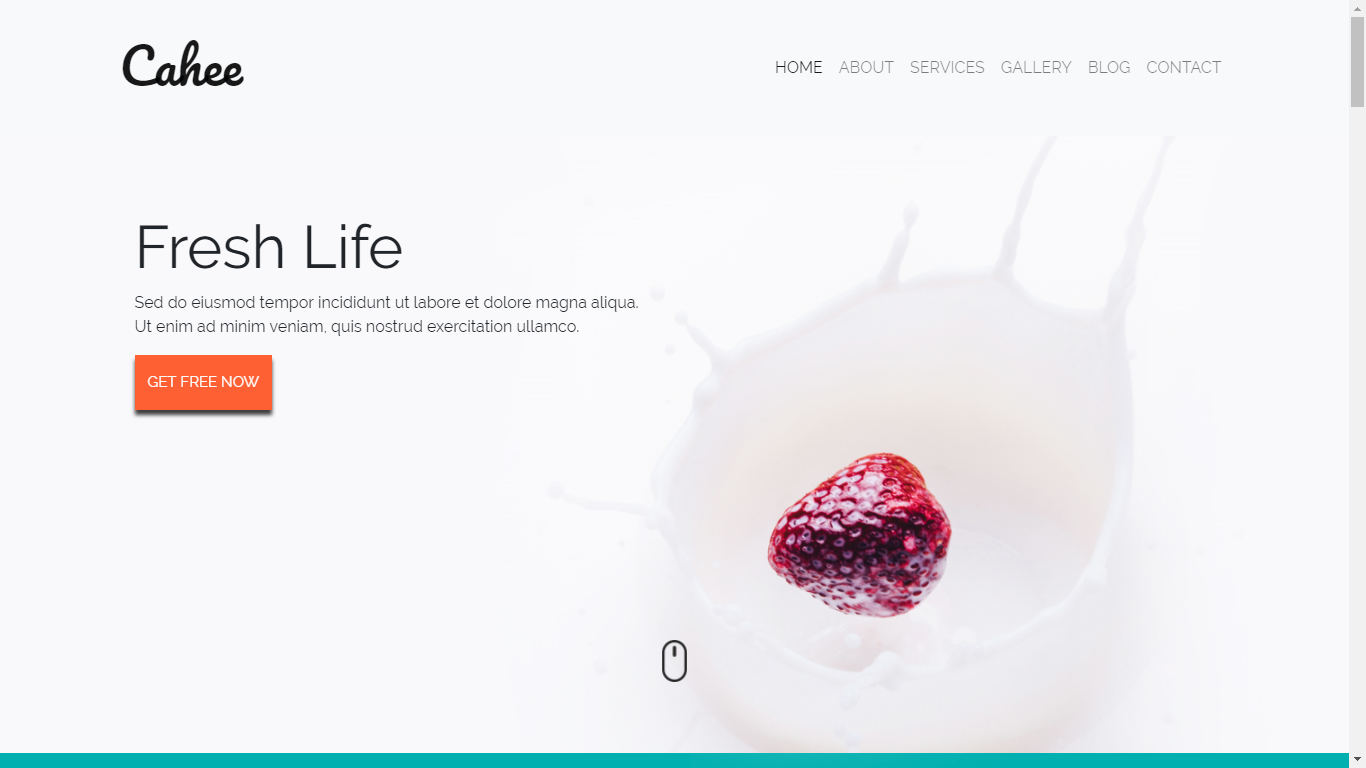
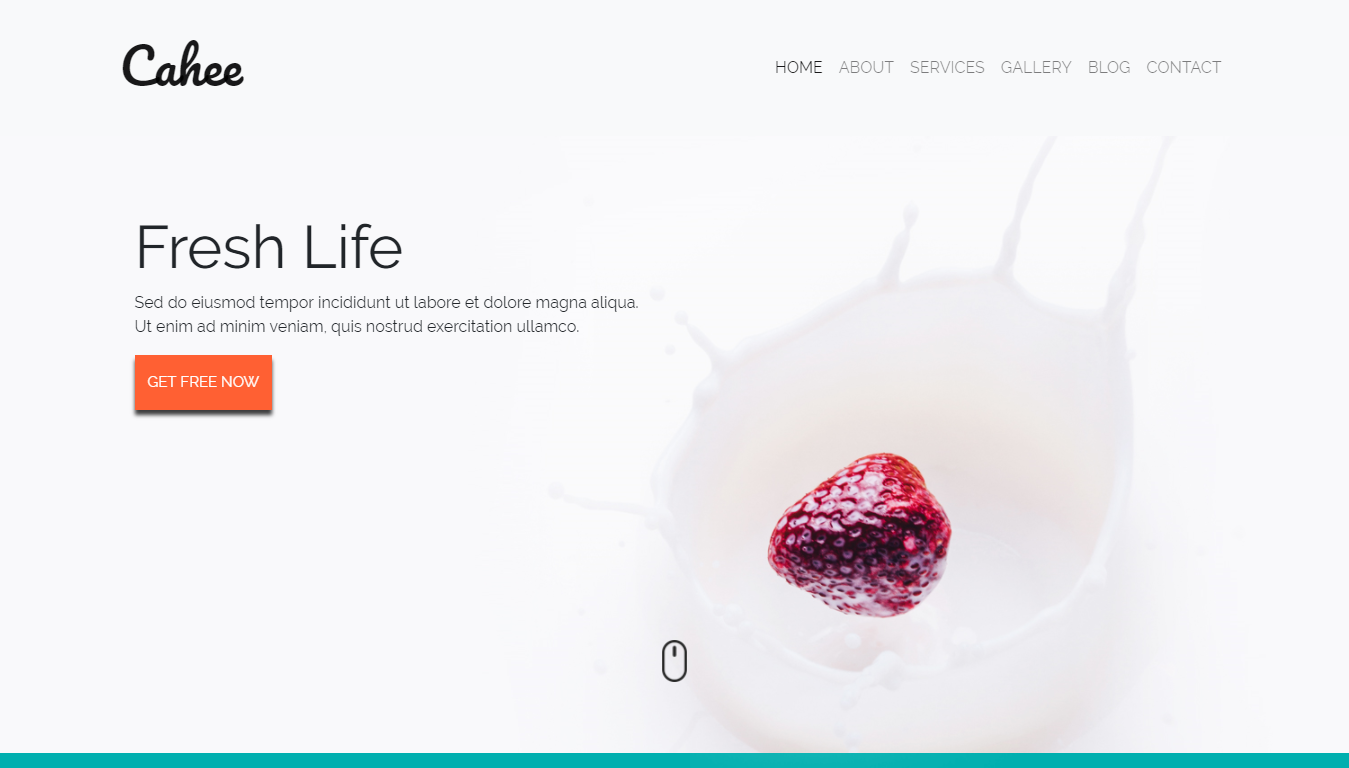
minor fixes & nav fix

diff --git a/CSS/style.css b/CSS/style.css
@@ -1,3 +1,3 @@
-html,body,div,span,applet,object,iframe,h1,h2,h3,h4,h5,h6,p,blockquote,pre,a,abbr,acronym,address,big,cite,code,del,dfn,em,img,ins,kbd,q,s,samp,small,strike,strong,sub,sup,tt,var,b,u,i,center,dl,dt,dd,ol,ul,li,fieldset,form,label,legend,table,caption,tbody,tfoot,thead,tr,th,td,article,aside,canvas,details,embed,figure,figcaption,footer,header,hgroup,menu,nav,output,ruby,section,summary,time,mark,audio,video{margin:0;padding:0;border:0;font-size:100%;font:inherit;vertical-align:baseline}article,aside,details,figcaption,figure,footer,header,hgroup,menu,nav,section{display:block}body{line-height:1}ol,ul{list-style:none}blockquote,q{quotes:none}blockquote:before,blockquote:after,q:before,q:after{content:'';content:none}table{border-collapse:collapse;border-spacing:0}.body{overflow-x:hidden;font-size:10px;font-family:'Titillium Web', sans-serif}.nav__container,.header__container,.abt__container,.skls__container,.prt__container,.cntc__container{padding-left:15px;padding-right:15px;margin-right:auto;margin-left:auto}.footer__container{width:100%}@media (min-width: 575.98px){.nav__container,.header__container,.abt__container,.skls__container,.prt__container,.cntc__container{max-width:540px}}@media (min-width: 320px){.nav__container,.header__container,.abt__container,.skls__container,.prt__container,.cntc__container{max-width:720px}}@media (min-width: 991.98px){.nav__container,.header__container,.abt__container,.skls__container,.prt__container,.cntc__container{max-width:1146px}}@media (min-width: 1199.98px){.nav__container,.header__container,.abt__container,.skls__container,.prt__container,.cntc__container{max-width:1146px}}a,a:link,a:visited{color:white}a:hover{color:white}a{text-decoration:none}.nav{display:block;z-index:333;position:fixed;width:100%;margin-top:0;top:0;background-color:#87509c}.nav__brand{display:-webkit-box;display:-ms-flexbox;display:flex;-webkit-box-pack:start;-ms-flex-pack:start;justify-content:flex-start;width:60px;height:60px;padding-top:8px;font-size:24px;font-weight:bolder;color:white}.nav__hamburger{display:-webkit-box;display:-ms-flexbox;display:flex;-webkit-box-pack:end;-ms-flex-pack:end;justify-content:flex-end;position:absolute;top:5px;right:5px;z-index:34;width:30px;height:30px;margin:15px;padding:0;border:none;outline:0;padding:0;border-top:5px solid #fff;background:none;background:transparent;cursor:pointer;-webkit-transition:0.15s -webkit-transform linear;transition:0.15s -webkit-transform linear;transition:0.15s transform linear;transition:0.15s transform linear, 0.15s -webkit-transform linear}.nav__hamburger::after,.nav__hamburger::before{content:'';position:absolute;top:0;left:0;width:100%;border-top:5px solid #fff;-webkit-transform:translateY(5px);transform:translateY(5px);-webkit-transition:0.15s -webkit-transform linear;transition:0.15s -webkit-transform linear;transition:0.15s transform linear;transition:0.15s transform linear, 0.15s -webkit-transform linear}.nav__hamburger::after{-webkit-transform:translateY(15px);transform:translateY(15px)}.nav__list{display:none;position:relative;z-index:33;width:100%;height:auto;top:0;height:0;color:white}.nav__list--active{display:block;-webkit-transform:translateX(0);transform:translateX(0);height:150px}.nav__item{width:100%;text-align:center;border-bottom:2px solid white;font-size:2.6em}.nav__item a,.nav__item a:visited{text-decoration:none;color:#fff}.site_nav__item:first-child{background-color:#643a79}.header{min-height:60vh;padding-top:120px;padding-bottom:60px;background-color:#87509c}.header__h1{font-size:3.5em;line-height:130%;font-weight:bolder}.abt__h2,.skls__h2,.prt__h2,.cntc__h2{font-size:3.2em;line-height:130%;font-weight:bolder;padding-top:30px}.abt__h3,.skls__h3,.prt__h3,.cntc__h3{font-size:2.9em;line-height:130%;font-weight:500;padding-top:30px}.abt__h4,.skls__h4,.prt__h4,.prt__description,.cntc__h4{font-size:2.6em;line-height:130%;font-weight:400;padding-top:30px}.abt__description,.skls__h5,.skls__description{font-size:2.4em;line-height:130%;font-weight:300;padding-top:30px}.abt__hr,.skls__hr,.prt__hr,.cntc__hr{height:4px;width:88px;background-color:black;opacity:0.15;border:none;margin-top:22px;margin-bottom:22px}.header__button,.prt__button,button[type=submit]{height:66px;font-size:1.5em;font-weight:bolder;text-align:center;margin:0 auto;display:block;border-radius:3px;border:none;min-width:200px;max-width:293px;line-height:66px;cursor:pointer}.header__h1{text-align:center;color:white}.header__button{margin-top:60px;background-color:#eb7d4b;-webkit-box-shadow:0 4px #c86a40;box-shadow:0 4px #c86a40;color:white}.abt{background-color:#17c2a4;color:white}.abt__grid{display:-webkit-box;display:-ms-flexbox;display:flex;-webkit-box-orient:vertical;-webkit-box-direction:normal;-ms-flex-direction:column;flex-direction:column;padding-bottom:28px}.abt__h2{text-align:center}.abt__h3{text-align:center;margin-bottom:48px}.abt__description{min-height:170px;padding:10px}.skls{background-color:#d74680;color:white}.skls__h2{color:#3c4761;color:white;text-align:center}@font-face{font-family:'icomoon';src:url("../fonts/icomoon.eot?7b9zu8");src:url("../fonts/icomoon.eot?7b9zu8#iefix") format("embedded-opentype"),url("../fonts/icomoon.ttf?7b9zu8") format("truetype"),url("../fonts/icomoon.woff?7b9zu8") format("woff"),url("../fonts/icomoon.svg?7b9zu8#icomoon") format("svg");font-weight:normal;font-style:normal}[class^="icon-"],[class*=" icon-"]{font-family:'icomoon' !important;speak:none;fontstyle:normal;font-weight:normal;font-variant:normal;text-transform:none;line-height:1;webkit-font-smoothing:antialiased;-moz-osx-font-smoothing:grayscale}.icon-lightbulb-o:before{content:"\e901"}.icon-compass:before{content:"\e949"}.icon-power:before{content:"\e9b5"}.icon-flag:before{content:"\e9cc"}.icon-embed2:before{content:"\ea80"}.devicon,.icon-compass,.icon-embed2,.icon-flag,.icon-lightbulb-o,.icon-power{display:-webkit-box;display:-ms-flexbox;display:flex;-webkit-box-pack:center;-ms-flex-pack:center;justify-content:center;font-size:98px;color:#87509c}.fa-code{font-size:20px}.skls__h3{text-align:center;color:#3c4761;color:white}.skls__h4{color:white}.skls__h5{color:white;padding:10px}.skls__description{padding:10px}.skls__grid{display:-webkit-box;display:-ms-flexbox;display:flex;-webkit-box-orient:vertical;-webkit-box-direction:normal;-ms-flex-direction:column;flex-direction:column;margin-top:48px;padding-bottom:46px}.skls__item{margin-bottom:15px}.prt{background-color:#ffdd99;padding-bottom:60px}.prt__h2{font-weight:bolder;text-align:center;padding-top:50px}.prt__h3{text-align:center}.prt__h4{text-align:center}.prt__description{text-align:center;padding:10px}.prt__grid{padding-top:30px;display:grid;grid-template-rows:1fr}.prt__item{margin:1px}.prt__img{height:auto;max-width:100%;display:block;margin:0 auto}.prt__button{margin-top:24px;background-color:#17c2a4;-webkit-box-shadow:0 4px #14a58c;box-shadow:0 4px #14a58c;color:white}.cntc{background-color:#3c5499;padding-bottom:24px;color:white}.cntc__h2{text-align:center}.cntc__form{margin:0 auto}.cntc__inputsgroup{margin-top:8px;display:-webkit-box;display:-ms-flexbox;display:flex;-webkit-box-orient:vertical;-webkit-box-direction:normal;-ms-flex-direction:column;flex-direction:column}input[type=email],input[type=text]{width:100%;height:56px;margin-bottom:28px;border-radius:2px;border:none;text-indent:26px;font-size:1.6em;font-weight:normal;background-color:#273a71;color:white}input::-webkit-input-placeholder,textarea::-webkit-input-placeholder{color:white}input:-ms-input-placeholder,textarea:-ms-input-placeholder{color:white}input::-ms-input-placeholder,textarea::-ms-input-placeholder{color:white}input::placeholder,textarea::placeholder{color:white}button[type=submit]{text-align:center;-webkit-box-shadow:0 4px #299ec5;box-shadow:0 4px #299ec5;margin-top:16px;background-color:#30bae7;color:white}.cntc__textarea{width:100%;min-height:300px;resize:vertical;border-radius:2px;border:none;font-family:'Titillium Web', sans-serif;text-indent:26px;font-size:1.6em;font-weight:normal;color:white;background-color:#273a71}input:focus,textarea:focus{outline-color:white}.footer{min-height:60px;padding-bottom:6px;background-color:#344b8e}.footer__list{width:100%;display:-webkit-box;display:-ms-flexbox;display:flex;-webkit-box-orient:vertical;-webkit-box-direction:normal;-ms-flex-direction:column;flex-direction:column}.footer__link{margin-top:22px;text-align:center;font-size:2.2em}@media screen and (min-width: 575.98px){.abt__grid{-webkit-box-orient:horizontal;-webkit-box-direction:normal;-ms-flex-direction:row;flex-direction:row;-ms-flex-wrap:wrap;flex-wrap:wrap}.skls__grid{-webkit-box-orient:horizontal;-webkit-box-direction:normal;-ms-flex-direction:row;flex-direction:row;-ms-flex-wrap:wrap;flex-wrap:wrap}.skls__item{width:50%}.abt__item{width:50%}.cntc__inputsgroup{-webkit-box-orient:horizontal;-webkit-box-direction:normal;-ms-flex-direction:row;flex-direction:row}input:first-child{margin-right:14px}input:last-child{margin-left:14px}}@media screen and (min-width: 767.98px){.abt__grid{-webkit-box-orient:horizontal;-webkit-box-direction:normal;-ms-flex-direction:row;flex-direction:row;-ms-flex-wrap:nowrap;flex-wrap:nowrap}.skls__grid{-webkit-box-orient:horizontal;-webkit-box-direction:normal;-ms-flex-direction:row;flex-direction:row;-ms-flex-wrap:wrap;flex-wrap:wrap}.skls__item{width:50%}.prt__grid{grid-template-columns:1fr 1fr}.prt__item:first-child{margin-right:5px}.prt__item:last-child{margin-left:5px}}@media (min-width: 991.98px){.nav__hamburger{display:none}.nav__brand{float:left}.nav__list{display:-webkit-box;display:-ms-flexbox;display:flex;-webkit-box-pack:start;-ms-flex-pack:start;justify-content:flex-start;position:static;float:right;width:auto;background-color:transparent}.nav__item{display:list-item;width:auto;margin-left:10px;margin-top:15px;padding-bottom:8px;padding-left:12px;padding-right:12px;border:none}a.nav__link{padding-left:6px;padding-right:6px;border-radius:4px}a.nav__link:hover{background-color:#643a79}.footer__list{-webkit-box-orient:horizontal;-webkit-box-direction:normal;-ms-flex-direction:row;flex-direction:row}.footer__link{width:50%}}::-moz-selection{background-color:#643a79;color:white}::selection{background-color:#643a79;color:white}
+html,body,div,span,applet,object,iframe,h1,h2,h3,h4,h5,h6,p,blockquote,pre,a,abbr,acronym,address,big,cite,code,del,dfn,em,img,ins,kbd,q,s,samp,small,strike,strong,sub,sup,tt,var,b,u,i,center,dl,dt,dd,ol,ul,li,fieldset,form,label,legend,table,caption,tbody,tfoot,thead,tr,th,td,article,aside,canvas,details,embed,figure,figcaption,footer,header,hgroup,menu,nav,output,ruby,section,summary,time,mark,audio,video{margin:0;padding:0;border:0;font-size:100%;font:inherit;vertical-align:baseline}article,aside,details,figcaption,figure,footer,header,hgroup,menu,nav,section{display:block}body{line-height:1}ol,ul{list-style:none}blockquote,q{quotes:none}blockquote:before,blockquote:after,q:before,q:after{content:'';content:none}table{border-collapse:collapse;border-spacing:0}.body{overflow-x:hidden;font-size:10px;font-family:'Titillium Web', sans-serif}.nav__container,.header__container,.abt__container,.skls__container,.prt__container,.cntc__container{padding-left:15px;padding-right:15px;margin-right:auto;margin-left:auto}.footer__container{width:100%}@media (min-width: 575.98px){.nav__container,.header__container,.abt__container,.skls__container,.prt__container,.cntc__container{max-width:540px}}@media (min-width: 320px){.nav__container,.header__container,.abt__container,.skls__container,.prt__container,.cntc__container{max-width:720px}}@media (min-width: 991.98px){.nav__container,.header__container,.abt__container,.skls__container,.prt__container,.cntc__container{max-width:1146px}}@media (min-width: 1199.98px){.nav__container,.header__container,.abt__container,.skls__container,.prt__container,.cntc__container{max-width:1146px}}a,a:link,a:visited{color:white}a:hover{color:white}a{text-decoration:none}.nav{display:block;z-index:333;position:fixed;width:100%;margin-top:0;top:0;background-color:#87509c}.nav__brand{display:-webkit-box;display:-ms-flexbox;display:flex;-webkit-box-pack:start;-ms-flex-pack:start;justify-content:flex-start;width:60px;height:60px;padding-top:8px;font-size:24px;font-weight:bolder;color:white}.nav__hamburger{display:-webkit-box;display:-ms-flexbox;display:flex;-webkit-box-pack:end;-ms-flex-pack:end;justify-content:flex-end;position:absolute;top:5px;right:5px;z-index:34;width:30px;height:30px;margin:15px;padding:0;border:none;outline:0;padding:0;border-top:5px solid #fff;background:none;background:transparent;cursor:pointer;-webkit-transition:0.15s -webkit-transform linear;transition:0.15s -webkit-transform linear;transition:0.15s transform linear;transition:0.15s transform linear, 0.15s -webkit-transform linear}.nav__hamburger::after,.nav__hamburger::before{content:'';position:absolute;top:0;left:0;width:100%;border-top:5px solid #fff;-webkit-transform:translateY(5px);transform:translateY(5px);-webkit-transition:0.15s -webkit-transform linear;transition:0.15s -webkit-transform linear;transition:0.15s transform linear;transition:0.15s transform linear, 0.15s -webkit-transform linear}.nav__hamburger::after{-webkit-transform:translateY(15px);transform:translateY(15px)}.nav__list{display:none;position:relative;z-index:33;width:100%;height:auto;top:0;height:0;color:white;-webkit-transition:height 2s linear;transition:height 2s linear}.nav__list--active{display:block;height:auto}.nav__item{width:100%;margin-top:10px;margin-bottom:10px;padding-bottom:5px;padding-top:5px;background-color:#17c2a4;-webkit-box-shadow:4px 4px #138a75;box-shadow:4px 4px #138a75;text-align:center;font-size:2.6em}.nav__item a,.nav__item a:visited{text-decoration:none;color:#fff}.site_nav__item:first-child{background-color:#643a79}.header{min-height:65vh;padding-top:120px;padding-bottom:60px;background-color:#87509c}.header__h1{font-size:3.5em;line-height:130%;font-weight:bolder}.abt__h2,.skls__h2,.prt__h2,.cntc__h2{font-size:3.2em;line-height:130%;font-weight:bolder;padding-top:30px}.abt__h3,.skls__h3,.prt__h3,.cntc__h3{font-size:2.9em;line-height:130%;font-weight:500;padding-top:30px}.abt__h4,.skls__h4,.prt__h4,.prt__description,.cntc__h4{font-size:2.6em;line-height:130%;font-weight:400;padding-top:30px}.abt__description,.skls__h5,.skls__description{font-size:2.4em;line-height:130%;font-weight:300;padding-top:30px}.abt__hr,.skls__hr,.prt__hr,.cntc__hr{height:4px;width:88px;background-color:black;opacity:0.15;border:none;margin-top:22px;margin-bottom:22px}.header__button,.prt__button,button[type=submit]{height:66px;font-size:1.5em;font-weight:bolder;text-align:center;margin:0 auto;display:block;border-radius:3px;border:none;min-width:200px;max-width:293px;line-height:66px;cursor:pointer}.header__h1{text-align:center;color:white}.header__button{margin-top:60px;background-color:#eb7d4b;-webkit-box-shadow:0 4px #c86a40;box-shadow:0 4px #c86a40;color:white}.abt{background-color:#17c2a4;color:white}.abt__grid{display:-webkit-box;display:-ms-flexbox;display:flex;-webkit-box-orient:vertical;-webkit-box-direction:normal;-ms-flex-direction:column;flex-direction:column;padding-bottom:28px}.abt__h2{text-align:center}.abt__h3{text-align:center;margin-bottom:48px}.abt__description{min-height:170px;padding:10px}.skls{background-color:#d74680;color:white}.skls__h2{color:#3c4761;color:white;text-align:center}@font-face{font-family:'icomoon';src:url("../fonts/icomoon.eot?7b9zu8");src:url("../fonts/icomoon.eot?7b9zu8#iefix") format("embedded-opentype"),url("../fonts/icomoon.ttf?7b9zu8") format("truetype"),url("../fonts/icomoon.woff?7b9zu8") format("woff"),url("../fonts/icomoon.svg?7b9zu8#icomoon") format("svg");font-weight:normal;font-style:normal}[class^="icon-"],[class*=" icon-"]{font-family:'icomoon' !important;speak:none;fontstyle:normal;font-weight:normal;font-variant:normal;text-transform:none;line-height:1;webkit-font-smoothing:antialiased;-moz-osx-font-smoothing:grayscale}.icon-lightbulb-o:before{content:"\e901"}.icon-compass:before{content:"\e949"}.icon-power:before{content:"\e9b5"}.icon-flag:before{content:"\e9cc"}.icon-embed2:before{content:"\ea80"}.devicon,.icon-compass,.icon-embed2,.icon-flag,.icon-lightbulb-o,.icon-power{display:-webkit-box;display:-ms-flexbox;display:flex;-webkit-box-pack:center;-ms-flex-pack:center;justify-content:center;font-size:98px;color:#87509c}.skls .icon-embed2,.devicon{color:#17c2a4}.fa-code{font-size:20px}.skls__h3{text-align:center;color:#3c4761;color:white}.skls__h4{color:white;text-align:center;font-size:3em}.skls__h5{color:white;padding:10px}.skls__description{padding:10px}.skls__grid{display:-webkit-box;display:-ms-flexbox;display:flex;-webkit-box-orient:vertical;-webkit-box-direction:normal;-ms-flex-direction:column;flex-direction:column;margin-top:48px;padding-bottom:46px}.skls__item{margin-bottom:15px}.prt{background-color:#ffdd99;padding-bottom:60px}.prt__h2{font-weight:bolder;text-align:center;padding-top:50px}.prt__h3{text-align:center}.prt__h4{text-align:center;font-weight:600;color:#925d44}.prt__description{text-align:center;padding:10px}.prt__grid{padding-top:30px;display:grid;grid-template-rows:1fr}.prt__item{margin:1px}.prt__img{height:auto;max-width:100%;display:block;margin:0 auto}.prt__button{margin-top:24px;background-color:#17c2a4;-webkit-box-shadow:0 4px #14a58c;box-shadow:0 4px #14a58c;color:white}.cntc{background-color:#3c5499;padding-bottom:24px;color:white}.cntc__h2{text-align:center}.cntc__form{margin:0 auto}.cntc__inputsgroup{margin-top:8px;display:-webkit-box;display:-ms-flexbox;display:flex;-webkit-box-orient:vertical;-webkit-box-direction:normal;-ms-flex-direction:column;flex-direction:column}input[type=email],input[type=text]{width:100%;height:56px;margin-bottom:28px;border-radius:2px;border:none;text-indent:26px;font-size:1.6em;font-weight:normal;background-color:#273a71;color:white}input::-webkit-input-placeholder,textarea::-webkit-input-placeholder{color:white}input:-ms-input-placeholder,textarea:-ms-input-placeholder{color:white}input::-ms-input-placeholder,textarea::-ms-input-placeholder{color:white}input::placeholder,textarea::placeholder{color:white}button[type=submit]{text-align:center;-webkit-box-shadow:0 4px #299ec5;box-shadow:0 4px #299ec5;margin-top:16px;background-color:#30bae7;color:white}.cntc__textarea{width:100%;min-height:300px;resize:vertical;border-radius:2px;border:none;font-family:'Titillium Web', sans-serif;text-indent:26px;font-size:1.6em;font-weight:normal;color:white;background-color:#273a71}input:focus,textarea:focus{outline-color:white}.footer{min-height:60px;padding-bottom:6px;background-color:#344b8e}.footer__list{width:100%;display:-webkit-box;display:-ms-flexbox;display:flex;-webkit-box-orient:vertical;-webkit-box-direction:normal;-ms-flex-direction:column;flex-direction:column}.footer__link{margin-top:22px;text-align:center;font-size:2.2em}@media screen and (min-width: 575.98px){.abt__grid{-webkit-box-orient:horizontal;-webkit-box-direction:normal;-ms-flex-direction:row;flex-direction:row;-ms-flex-wrap:wrap;flex-wrap:wrap}.skls__grid{-webkit-box-orient:horizontal;-webkit-box-direction:normal;-ms-flex-direction:row;flex-direction:row;-ms-flex-wrap:wrap;flex-wrap:wrap}.skls__item{width:50%}.abt__item{width:50%}.cntc__inputsgroup{-webkit-box-orient:horizontal;-webkit-box-direction:normal;-ms-flex-direction:row;flex-direction:row}input:first-child{margin-right:14px}input:last-child{margin-left:14px}}@media screen and (min-width: 767.98px){.abt__grid{-webkit-box-orient:horizontal;-webkit-box-direction:normal;-ms-flex-direction:row;flex-direction:row;-ms-flex-wrap:nowrap;flex-wrap:nowrap}.skls__grid{-webkit-box-orient:horizontal;-webkit-box-direction:normal;-ms-flex-direction:row;flex-direction:row;-ms-flex-wrap:wrap;flex-wrap:wrap}.skls__item{width:50%}.prt__grid{grid-template-columns:1fr 1fr}.prt__item:first-child{margin-right:5px}.prt__item:last-child{margin-left:5px}}@media (min-width: 991.98px){.nav__hamburger{display:none}.nav__brand{float:left}.nav__list{display:-webkit-box;display:-ms-flexbox;display:flex;-webkit-box-pack:start;-ms-flex-pack:start;justify-content:flex-start;position:static;float:right;width:auto;background-color:transparent}.nav__item{display:list-item;width:auto;margin-left:10px;margin-top:15px;padding-bottom:8px;padding-left:12px;padding-right:12px;border:none;background-color:transparent;-webkit-box-shadow:none;box-shadow:none}a.nav__link{padding-left:6px;padding-right:6px;border-radius:4px}a.nav__link:hover{background-color:#643a79}.footer__list{-webkit-box-orient:horizontal;-webkit-box-direction:normal;-ms-flex-direction:row;flex-direction:row}.footer__link{width:50%}}@media (min-width: 1199.98px){.header{min-height:25vh}}::-moz-selection{background-color:#643a79;color:white}::selection{background-color:#643a79;color:white}
 
 /*# sourceMappingURL=style.css.map */

diff --git a/SCSS/main.scss b/SCSS/main.scss
@@ -61,7 +61,6 @@ a {
     nav
     nav
 **/
-
 .nav {
   display: block;
   z-index: 333;
@@ -133,18 +132,23 @@ a {
   top: 0;
   height: 0;
   color: white;
+  transition: height 2s linear;
 }
 
 .nav__list--active {
   display: block;
-  transform: translateX(0);
-  height: 150px;
+  height: auto;
 }
 
 .nav__item {
   width: 100%;
+  margin-top: 10px;
+  margin-bottom: 10px;
+  padding-bottom: 5px;
+  padding-top: 5px;
+  background-color: #17c2a4;
+  box-shadow: 4px 4px #138a75;
   text-align: center;
-  border-bottom: 2px solid white;
   font-size: 2.6em;
 }
 
@@ -161,9 +165,8 @@ a {
     header
     header
 **/
-
 .header {
-  min-height: 60vh;
+  min-height: 65vh;
   padding-top: 120px;
   padding-bottom: 60px;
   background-color: #87509c;
@@ -249,7 +252,6 @@ a {
     abt
     abt
 **/
-
 .abt {
   background-color: #17c2a4;
   color: white;
@@ -273,7 +275,6 @@ a {
     services
     services
 **/
-
 .abt__h3 {
   @extend %h3;
   text-align: center;
@@ -297,7 +298,6 @@ a {
     skills
     skills
 **/
-
 .skls {
   background-color: #d74680;
   color: white;
@@ -326,7 +326,9 @@ a {
   font-size: 98px;
   color: #87509c;
 }
-
+.skls .icon-embed2,.devicon{
+  color: #17c2a4;
+}
 .fa-code {
   font-size: 20px;
 }
@@ -345,6 +347,8 @@ a {
 .skls__h4 {
   @extend %h4;
   color: white;
+  text-align: center;
+  font-size: 3em;
 }
 
 .skls__h5 {
@@ -372,7 +376,6 @@ a {
     portfolio
     portfolio
 **/
-
 .prt {
   background-color: #ffdd99;
   padding-bottom: 60px;
@@ -397,6 +400,8 @@ a {
 .prt__h4 {
   @extend %h4;
   text-align: center;
+  font-weight: 600;
+  color: #925d44;
 }
 
 .prt__description {
@@ -479,7 +484,8 @@ input[type=text] {
   border-radius: 2px;
   border: none;
   text-indent: 26px;
-  font-size: 1.6em;font-weight: normal;
+  font-size: 1.6em;
+  font-weight: normal;
   background-color: #273a71;
   color: white;
 }
@@ -520,7 +526,6 @@ textarea:focus {
     footer
     footer
 **/
-
 .footer {
   min-height: 60px;
   padding-bottom: 6px;
@@ -630,6 +635,8 @@ textarea:focus {
     padding-left: 12px;
     padding-right: 12px;
     border: none;
+    background-color: transparent;
+    box-shadow: none;
   }
 
   a.nav__link {
@@ -648,6 +655,11 @@ textarea:focus {
 
   .footer__link {
     width: 50%;
+  }
+}
+@media (min-width: $xxl) {
+  .header {
+    min-height: 25vh;
   }
 }
 

diff --git a/index.html b/index.html
@@ -94,10 +94,7 @@
           <div>
             <i class="devicon devicon-javascript-plain"></i>
             <h4 class="skls__h4">JavaScript</h4>
-            <p class="skls__description">Lekki język skryptów, który pozwala dodać dynamiki stronom internetowym.<br/> Aktualnie uczę się go w wersji ES5, w najbliższym czasię zamierzam nauczyć się również ES6, jQuery oraz Vue.js lub React'a.</p>
-          </div>
-        </div>
-        <div class="skls__item" data-aos="fade-right">
+            <p class="skls__description">Lekki język skryptów, który pozwala dodać dynamiki stronom internetowym.<br/> Aktualnie Lekki język skryptów, który pozwala dodać dynamiki stronom internetowym.<br/> Aktualnie uczę się go w wersji ES5, w najbliższym czasię zamierzam nauczyć się ró. <div class="skls__item" data-aos="fade-right">
           <div>
             <i class="devicon devicon-bootstrap-plain"></i>
             <h4 class="skls__h4">Bootstrap</h4>
